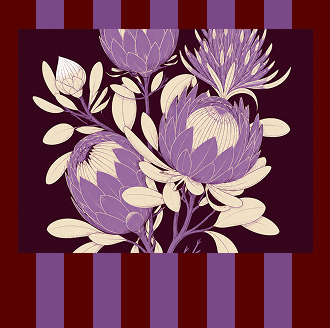
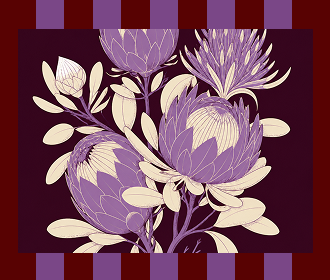
Updates

diff --git a/index.html b/index.html
@@ -20,8 +20,8 @@
         }
       })();
     </script>
-  <script type="module" crossorigin src="/assets/index-DYLBtxY8.js"></script>
-  <link rel="stylesheet" crossorigin href="/assets/index-BcqZ-OCR.css">
+  <script type="module" crossorigin src="/assets/index-DflbWhc_.js"></script>
+  <link rel="stylesheet" crossorigin href="/assets/index-C4yHXYfq.css">
 </head>
 
 <body>

diff --git a/assets/index-C4yHXYfq.css b/assets/index-C4yHXYfq.css
@@ -1,0 +1,1 @@
+@layer properties{@supports (((-webkit-hyphens:none)) and (not (margin-trim:inline))) or ((-moz-orient:inline) and (not (color:rgb(from red r g b)))){*,:before,:after,::backdrop{--tw-translate-x:0;--tw-translate-y:0;--tw-translate-z:0;--tw-border-style:solid;--tw-leading:initial;--tw-font-weight:initial;--tw-tracking:initial;--tw-shadow:0 0 #0000;--tw-shadow-color:initial;--tw-shadow-alpha:100%;--tw-inset-shadow:0 0 #0000;--tw-inset-shadow-color:initial;--tw-inset-shadow-alpha:100%;--tw-ring-color:initial;--tw-ring-shadow:0 0 #0000;--tw-inset-ring-color:initial;--tw-inset-ring-shadow:0 0 #0000;--tw-ring-inset:initial;--tw-ring-offset-width:0px;--tw-ring-offset-color:#fff;--tw-ring-offset-shadow:0 0 #0000;--tw-duration:initial}}}@layer theme{:root,:host{--font-sans:ui-sans-serif,system-ui,sans-serif,"Apple Color Emoji","Segoe UI Emoji","Segoe UI Symbol","Noto Color Emoji";--font-mono:ui-monospace,SFMono-Regular,Menlo,Monaco,Consolas,"Liberation Mono","Courier New",monospace;--color-red-500:oklch(63.7% .237 25.331);--color-green-500:oklch(72.3% .219 149.579);--color-blue-500:oklch(62.3% .214 259.815);--color-slate-300:oklch(86.9% .022 252.894);--color-slate-400:oklch(70.4% .04 256.788);--color-slate-500:oklch(55.4% .046 257.417);--color-slate-600:oklch(44.6% .043 257.281);--color-slate-700:oklch(37.2% .044 257.287);--color-slate-900:oklch(20.8% .042 265.755);--color-black:#000;--color-white:#fff;--spacing:.25rem;--container-sm:24rem;--text-xs:.75rem;--text-xs--line-height:calc(1/.75);--text-sm:.875rem;--text-sm--line-height:calc(1.25/.875);--text-lg:1.125rem;--text-lg--line-height:calc(1.75/1.125);--text-xl:1.25rem;--text-xl--line-height:calc(1.75/1.25);--text-2xl:1.5rem;--text-2xl--line-height:calc(2/1.5);--text-3xl:1.875rem;--text-3xl--line-height: 1.2 ;--text-4xl:2.25rem;--text-4xl--line-height:calc(2.5/2.25);--font-weight-normal:400;--font-weight-semibold:600;--font-weight-bold:700;--radius-xl:.75rem;--radius-2xl:1rem;--default-transition-duration:.15s;--default-transition-timing-function:cubic-bezier(.4,0,.2,1);--default-font-family:var(--font-sans);--default-mono-font-family:var(--font-mono)}}@layer base{*,:after,:before,::backdrop{box-sizing:border-box;border:0 solid;margin:0;padding:0}::file-selector-button{box-sizing:border-box;border:0 solid;margin:0;padding:0}html,:host{-webkit-text-size-adjust:100%;tab-size:4;line-height:1.5;font-family:var(--default-font-family,ui-sans-serif,system-ui,sans-serif,"Apple Color Emoji","Segoe UI Emoji","Segoe UI Symbol","Noto Color Emoji");font-feature-settings:var(--default-font-feature-settings,normal);font-variation-settings:var(--default-font-variation-settings,normal);-webkit-tap-highlight-color:transparent}hr{height:0;color:inherit;border-top-width:1px}abbr:where([title]){-webkit-text-decoration:underline dotted;text-decoration:underline dotted}h1,h2,h3,h4,h5,h6{font-size:inherit;font-weight:inherit}a{color:inherit;-webkit-text-decoration:inherit;text-decoration:inherit}b,strong{font-weight:bolder}code,kbd,samp,pre{font-family:var(--default-mono-font-family,ui-monospace,SFMono-Regular,Menlo,Monaco,Consolas,"Liberation Mono","Courier New",monospace);font-feature-settings:var(--default-mono-font-feature-settings,normal);font-variation-settings:var(--default-mono-font-variation-settings,normal);font-size:1em}small{font-size:80%}sub,sup{vertical-align:baseline;font-size:75%;line-height:0;position:relative}sub{bottom:-.25em}sup{top:-.5em}table{text-indent:0;border-color:inherit;border-collapse:collapse}:-moz-focusring{outline:auto}progress{vertical-align:baseline}summary{display:list-item}ol,ul,menu{list-style:none}img,svg,video,canvas,audio,iframe,embed,object{vertical-align:middle;display:block}img,video{max-width:100%;height:auto}button,input,select,optgroup,textarea{font:inherit;font-feature-settings:inherit;font-variation-settings:inherit;letter-spacing:inherit;color:inherit;opacity:1;background-color:#0000;border-radius:0}::file-selector-button{font:inherit;font-feature-settings:inherit;font-variation-settings:inherit;letter-spacing:inherit;color:inherit;opacity:1;background-color:#0000;border-radius:0}:where(select:is([multiple],[size])) optgroup{font-weight:bolder}:where(select:is([multiple],[size])) optgroup option{padding-inline-start:20px}::file-selector-button{margin-inline-end:4px}::placeholder{opacity:1}@supports (not ((-webkit-appearance:-apple-pay-button))) or (contain-intrinsic-size:1px){::placeholder{color:currentColor}@supports (color:color-mix(in lab,red,red)){::placeholder{color:color-mix(in oklab,currentcolor 50%,transparent)}}}textarea{resize:vertical}::-webkit-search-decoration{-webkit-appearance:none}::-webkit-date-and-time-value{min-height:1lh;text-align:inherit}::-webkit-datetime-edit{display:inline-flex}::-webkit-datetime-edit-fields-wrapper{padding:0}::-webkit-datetime-edit{padding-block:0}::-webkit-datetime-edit-year-field{padding-block:0}::-webkit-datetime-edit-month-field{padding-block:0}::-webkit-datetime-edit-day-field{padding-block:0}::-webkit-datetime-edit-hour-field{padding-block:0}::-webkit-datetime-edit-minute-field{padding-block:0}::-webkit-datetime-edit-second-field{padding-block:0}::-webkit-datetime-edit-millisecond-field{padding-block:0}::-webkit-datetime-edit-meridiem-field{padding-block:0}::-webkit-calendar-picker-indicator{line-height:1}:-moz-ui-invalid{box-shadow:none}button,input:where([type=button],[type=reset],[type=submit]){appearance:button}::file-selector-button{appearance:button}::-webkit-inner-spin-button{height:auto}::-webkit-outer-spin-button{height:auto}[hidden]:where(:not([hidden=until-found])){display:none!important}}@layer components;@layer utilities{.absolute{position:absolute}.fixed{position:fixed}.relative{position:relative}.inset-0{inset:calc(var(--spacing)*0)}.top-2{top:calc(var(--spacing)*2)}.right-2{right:calc(var(--spacing)*2)}.right-2\.5{right:calc(var(--spacing)*2.5)}.bottom-4\.5{bottom:calc(var(--spacing)*4.5)}.z-50{z-index:50}.mx-1{margin-inline:calc(var(--spacing)*1)}.mx-4{margin-inline:calc(var(--spacing)*4)}.mx-auto{margin-inline:auto}.mt-3{margin-top:calc(var(--spacing)*3)}.mt-6{margin-top:calc(var(--spacing)*6)}.mb-2{margin-bottom:calc(var(--spacing)*2)}.mb-4{margin-bottom:calc(var(--spacing)*4)}.mb-\[30px\]{margin-bottom:30px}.flex{display:flex}.grid{display:grid}.aspect-square{aspect-ratio:1}.h-4{height:calc(var(--spacing)*4)}.h-8{height:calc(var(--spacing)*8)}.h-10{height:calc(var(--spacing)*10)}.h-12{height:calc(var(--spacing)*12)}.h-34{height:calc(var(--spacing)*34)}.w-4{width:calc(var(--spacing)*4)}.w-8{width:calc(var(--spacing)*8)}.w-12{width:calc(var(--spacing)*12)}.w-32{width:calc(var(--spacing)*32)}.w-34{width:calc(var(--spacing)*34)}.w-full{width:100%}.max-w-\[80\%\]{max-width:80%}.max-w-sm{max-width:var(--container-sm)}.flex-1{flex:1}.translate-x-px{--tw-translate-x:1px;translate:var(--tw-translate-x)var(--tw-translate-y)}.cursor-pointer{cursor:pointer}.resize-none{resize:none}.grid-cols-2{grid-template-columns:repeat(2,minmax(0,1fr))}.flex-col{flex-direction:column}.items-center{align-items:center}.items-start{align-items:flex-start}.justify-between{justify-content:space-between}.justify-center{justify-content:center}.justify-start{justify-content:flex-start}.gap-0\.5{gap:calc(var(--spacing)*.5)}.gap-1{gap:calc(var(--spacing)*1)}.gap-2{gap:calc(var(--spacing)*2)}.gap-3{gap:calc(var(--spacing)*3)}.gap-4{gap:calc(var(--spacing)*4)}.gap-6{gap:calc(var(--spacing)*6)}.gap-y-8{row-gap:calc(var(--spacing)*8)}.rounded{border-radius:.25rem}.rounded-2xl{border-radius:var(--radius-2xl)}.rounded-full{border-radius:3.40282e38px}.rounded-xl{border-radius:var(--radius-xl)}.border{border-style:var(--tw-border-style);border-width:1px}.border-t{border-top-style:var(--tw-border-style);border-top-width:1px}.border-b-4{border-bottom-style:var(--tw-border-style);border-bottom-width:4px}.border-transparent{border-color:#0000}.bg-black\/50{background-color:#00000080}@supports (color:color-mix(in lab,red,red)){.bg-black\/50{background-color:color-mix(in oklab,var(--color-black)50%,transparent)}}.bg-slate-700{background-color:var(--color-slate-700)}.bg-white{background-color:var(--color-white)}.p-3{padding:calc(var(--spacing)*3)}.p-4{padding:calc(var(--spacing)*4)}.p-8{padding:calc(var(--spacing)*8)}.px-1{padding-inline:calc(var(--spacing)*1)}.px-2{padding-inline:calc(var(--spacing)*2)}.px-4{padding-inline:calc(var(--spacing)*4)}.py-2{padding-block:calc(var(--spacing)*2)}.\!pr-12{padding-right:calc(var(--spacing)*12)!important}.pb-2{padding-bottom:calc(var(--spacing)*2)}.text-center{text-align:center}.text-left{text-align:left}.text-right{text-align:right}.text-2xl{font-size:var(--text-2xl);line-height:var(--tw-leading,var(--text-2xl--line-height))}.text-3xl{font-size:var(--text-3xl);line-height:var(--tw-leading,var(--text-3xl--line-height))}.text-lg{font-size:var(--text-lg);line-height:var(--tw-leading,var(--text-lg--line-height))}.text-sm{font-size:var(--text-sm);line-height:var(--tw-leading,var(--text-sm--line-height))}.text-xl{font-size:var(--text-xl);line-height:var(--tw-leading,var(--text-xl--line-height))}.text-xs{font-size:var(--text-xs);line-height:var(--tw-leading,var(--text-xs--line-height))}.leading-\[18px\]{--tw-leading:18px;line-height:18px}.font-bold{--tw-font-weight:var(--font-weight-bold);font-weight:var(--font-weight-bold)}.font-normal{--tw-font-weight:var(--font-weight-normal);font-weight:var(--font-weight-normal)}.font-semibold{--tw-font-weight:var(--font-weight-semibold);font-weight:var(--font-weight-semibold)}.tracking-\[0\.4px\]{--tw-tracking:.4px;letter-spacing:.4px}.text-green-500{color:var(--color-green-500)}.text-red-500{color:var(--color-red-500)}.text-slate-300{color:var(--color-slate-300)}.text-slate-400{color:var(--color-slate-400)}.text-slate-500{color:var(--color-slate-500)}.text-white{color:var(--color-white)}.uppercase{text-transform:uppercase}.underline{text-decoration-line:underline}.shadow{--tw-shadow:0 1px 3px 0 var(--tw-shadow-color,#0000001a),0 1px 2px -1px var(--tw-shadow-color,#0000001a);box-shadow:var(--tw-inset-shadow),var(--tw-inset-ring-shadow),var(--tw-ring-offset-shadow),var(--tw-ring-shadow),var(--tw-shadow)}.transition-colors{transition-property:color,background-color,border-color,outline-color,text-decoration-color,fill,stroke,--tw-gradient-from,--tw-gradient-via,--tw-gradient-to;transition-timing-function:var(--tw-ease,var(--default-transition-timing-function));transition-duration:var(--tw-duration,var(--default-transition-duration))}@media(hover:hover){.hover\:bg-slate-900:hover{background-color:var(--color-slate-900)}.hover\:text-slate-600:hover{color:var(--color-slate-600)}}@media(min-width:48rem){.md\:absolute{position:absolute}.md\:grid-cols-4{grid-template-columns:repeat(4,minmax(0,1fr))}.md\:flex-row{flex-direction:row}.md\:gap-6{gap:calc(var(--spacing)*6)}.md\:gap-8{gap:calc(var(--spacing)*8)}.md\:text-4xl{font-size:var(--text-4xl);line-height:var(--tw-leading,var(--text-4xl--line-height))}.md\:text-lg{font-size:var(--text-lg);line-height:var(--tw-leading,var(--text-lg--line-height))}.md\:text-\[40px\]{font-size:40px}.md\:leading-\[50px\]{--tw-leading:50px;line-height:50px}}}.poppins-thin{font-family:Poppins,sans-serif;font-style:normal;font-weight:100}.poppins-extralight{font-family:Poppins,sans-serif;font-style:normal;font-weight:200}.poppins-light{font-family:Poppins,sans-serif;font-style:normal;font-weight:300}.poppins-regular{font-family:Poppins,sans-serif;font-style:normal;font-weight:400}.poppins-medium{font-family:Poppins,sans-serif;font-style:normal;font-weight:500}.poppins-semibold{font-family:Poppins,sans-serif;font-style:normal;font-weight:600}.poppins-bold{font-family:Poppins,sans-serif;font-style:normal;font-weight:700}.poppins-extrabold{font-family:Poppins,sans-serif;font-style:normal;font-weight:800}.poppins-black{font-family:Poppins,sans-serif;font-style:normal;font-weight:900}.poppins-thin-italic{font-family:Poppins,sans-serif;font-style:italic;font-weight:100}.poppins-extralight-italic{font-family:Poppins,sans-serif;font-style:italic;font-weight:200}.poppins-light-italic{font-family:Poppins,sans-serif;font-style:italic;font-weight:300}.poppins-regular-italic{font-family:Poppins,sans-serif;font-style:italic;font-weight:400}.poppins-medium-italic{font-family:Poppins,sans-serif;font-style:italic;font-weight:500}.poppins-semibold-italic{font-family:Poppins,sans-serif;font-style:italic;font-weight:600}.poppins-bold-italic{font-family:Poppins,sans-serif;font-style:italic;font-weight:700}.poppins-extrabold-italic{font-family:Poppins,sans-serif;font-style:italic;font-weight:800}.poppins-black-italic{font-family:Poppins,sans-serif;font-style:italic;font-weight:900}#root{padding:calc(var(--spacing)*6)}@media(min-width:48rem){#root{padding:calc(var(--spacing)*8)}}#root{text-align:center;--purple:#7a4787;--beige:#fffaf5;max-width:1280px;margin:0 auto}body{color:#333;font-family:Poppins,sans-serif;font-style:normal}.foto-capa{background-color:#580202;background-image:url(/foto4.jpeg);background-position:50% 72%;background-repeat:no-repeat;background-size:cover;width:100%;height:40vh;position:relative}.foto-capa.danca{background-image:url(/danca.png);background-position:50%;background-size:auto 80vh}.foto-capa:after{width:6px;height:40px;bottom:-20px}@media(min-width:48rem){.foto-capa:after{height:60px;bottom:-30px}}.foto-capa:after{content:"";background:var(--purple);position:absolute;left:50%;transform:translate(-50%)}.mood-festa{height:170px}@media(min-width:48rem){.mood-festa{height:250px}}.mood-festa{position:relative}.mood-festa:before{content:"";z-index:-1;filter:brightness(.5);background-image:url(/plantas-fundo.jpg);background-position:top;background-size:200%;width:100%;height:100%;position:absolute}.garden{display:none}@media(min-width:48rem){.garden{display:block}}.garden{aspect-ratio:1;background-image:url(/jardim.png);background-position:50%;background-size:cover}.spotify{background-color:#e6e6e6;justify-content:center;align-items:center;height:468px;margin-top:111px;margin-bottom:70px;display:flex;position:relative}.spotify:before{content:"";background:#d9d9d9;border-radius:100%;width:80px;height:80px;position:absolute;top:-40px;left:50%;transform:translate(-50%)}.spotify .capa-spotify{letter-spacing:.4px;background-color:#b8b8b8;justify-content:center;align-items:center;width:330px;height:330px;font-size:20px;display:flex}.input{background-color:var(--beige);width:100%;padding:calc(var(--spacing)*2)}.input:focus{--tw-ring-shadow:var(--tw-ring-inset,)0 0 0 calc(2px + var(--tw-ring-offset-width))var(--tw-ring-color,currentcolor);box-shadow:var(--tw-inset-shadow),var(--tw-inset-ring-shadow),var(--tw-ring-offset-shadow),var(--tw-ring-shadow),var(--tw-shadow);--tw-ring-color:var(--color-blue-500);--tw-outline-style:none;border-color:#0000;outline-style:none}.input.input-error{border-style:var(--tw-border-style);border-width:1px;border-color:var(--color-red-500)}.input.input-error:focus{--tw-ring-color:var(--color-red-500)}.button{cursor:pointer;background-color:var(--color-black);padding-inline:calc(var(--spacing)*4);padding-block:calc(var(--spacing)*2);font-size:var(--text-sm);line-height:var(--tw-leading,var(--text-sm--line-height));--tw-tracking:.2px;letter-spacing:.2px;color:var(--color-white);text-transform:uppercase;transition-property:color,background-color,border-color,outline-color,text-decoration-color,fill,stroke,--tw-gradient-from,--tw-gradient-via,--tw-gradient-to;transition-timing-function:var(--tw-ease,var(--default-transition-timing-function));transition-duration:var(--tw-duration,var(--default-transition-duration));--tw-duration:.3s;transition-duration:.3s}@media(hover:hover){.button:hover{background-color:var(--purple)}}.button{font-weight:600}@media not all and (min-width:48rem){.small{margin-right:calc(var(--spacing)*4);font-size:var(--text-sm);line-height:var(--tw-leading,var(--text-sm--line-height));flex:1}.foto-capa{background-size:250%}}.card{align-items:stretch;gap:calc(var(--spacing)*4);background-color:var(--beige);padding-bottom:calc(var(--spacing)*4);flex-direction:column;flex:1;display:flex}.card .button{margin-inline:calc(var(--spacing)*14)}@media(min-width:48rem){.card .button{margin-inline:calc(var(--spacing)*6)}}.title{text-align:center;font-size:var(--text-2xl);line-height:var(--tw-leading,var(--text-2xl--line-height));--tw-font-weight:var(--font-weight-bold);font-weight:var(--font-weight-bold);--tw-tracking:.4px;letter-spacing:.4px}@media(min-width:48rem){.title{font-size:var(--text-4xl);line-height:var(--tw-leading,var(--text-4xl--line-height))}}.extra{width:100%;height:110px}@media(min-width:48rem){.extra{height:220px}}.extra{background-position:50%;background-repeat:no-repeat;background-size:cover}.extra.extra-1{background-image:url(/extra1.png)}.extra.extra-2{background-image:url(/extra2.png)}.extra.color-bg1{background-color:#580202;background-size:32px}@media(min-width:48rem){.extra.color-bg1{background-size:48px}}.extra.color-bg1{background-image:url(/landing/calendar.svg)}.extra.color-bg2{background-color:var(--purple);background-size:32px}@media(min-width:48rem){.extra.color-bg2{background-size:48px}}.extra.color-bg2{background-image:url(/landing/giftlist.svg)}.bar{gap:calc(var(--spacing)*8);background-color:var(--beige);padding-inline:calc(var(--spacing)*8);padding-block:calc(var(--spacing)*6);font-size:var(--text-sm);line-height:var(--tw-leading,var(--text-sm--line-height));flex-direction:column;flex:1;display:flex}@media(min-width:48rem){.bar{flex-direction:row}}.bar>div{align-items:center;gap:calc(var(--spacing)*1);flex-direction:column;flex:1;display:flex}@media(min-width:48rem){.bar>div{text-align:left;align-items:flex-start}}.small-icon{margin-bottom:calc(var(--spacing)*4);background-position:50%;background-repeat:no-repeat;background-size:contain;width:22px;height:22px}.side-card{background-color:var(--beige);font-size:var(--text-sm);line-height:var(--tw-leading,var(--text-sm--line-height));flex-direction:row;flex:1;align-items:center;display:flex}.side-card .link-card{cursor:pointer;justify-content:space-around;align-items:center;gap:calc(var(--spacing)*4);padding-inline:calc(var(--spacing)*4);padding-block:calc(var(--spacing)*2);--tw-font-weight:var(--font-weight-bold);font-weight:var(--font-weight-bold);transition-property:color,background-color,border-color,outline-color,text-decoration-color,fill,stroke,--tw-gradient-from,--tw-gradient-via,--tw-gradient-to;transition-timing-function:var(--tw-ease,var(--default-transition-timing-function));transition-duration:var(--tw-duration,var(--default-transition-duration));--tw-duration:.3s;flex:1;transition-duration:.3s;display:flex}@media(hover:hover){.side-card .link-card:hover{color:var(--purple)}}@media(min-width:48rem){.side-card .link-card{padding-inline:calc(var(--spacing)*4);padding-block:calc(var(--spacing)*0);font-size:var(--text-lg);line-height:var(--tw-leading,var(--text-lg--line-height))}}.square-img{display:none}@media(min-width:48rem){.square-img{display:block}}.square-img{background-position:0;background-repeat:no-repeat;background-size:contain;width:185px;height:160px}.square-img.bg1{background-image:url(/bg-flower1.png)}.square-img.bg2{background-image:url(/bg-flower2.png)}.icon-rounded{background-color:var(--beige);width:40px;height:40px;padding:calc(var(--spacing)*4);background-position:50%;background-repeat:no-repeat;background-size:40%;border-radius:3.40282e38px;justify-content:center;align-items:center;display:flex}.items-list{align-items:flex-start;gap:calc(var(--spacing)*6);text-align:left;font-size:var(--text-sm);line-height:var(--tw-leading,var(--text-sm--line-height));display:flex}.items-list .subtitle{--tw-leading:28px;--tw-font-weight:var(--font-weight-bold);line-height:28px;font-weight:var(--font-weight-bold);text-transform:uppercase}.items-list .content{--tw-leading:24px;line-height:24px}.text-purple{color:var(--purple)}.border-purple{border-color:var(--purple)}.bg-beige{background-color:var(--beige)}@property --tw-translate-x{syntax:"*";inherits:false;initial-value:0}@property --tw-translate-y{syntax:"*";inherits:false;initial-value:0}@property --tw-translate-z{syntax:"*";inherits:false;initial-value:0}@property --tw-border-style{syntax:"*";inherits:false;initial-value:solid}@property --tw-leading{syntax:"*";inherits:false}@property --tw-font-weight{syntax:"*";inherits:false}@property --tw-tracking{syntax:"*";inherits:false}@property --tw-shadow{syntax:"*";inherits:false;initial-value:0 0 #0000}@property --tw-shadow-color{syntax:"*";inherits:false}@property --tw-shadow-alpha{syntax:"<percentage>";inherits:false;initial-value:100%}@property --tw-inset-shadow{syntax:"*";inherits:false;initial-value:0 0 #0000}@property --tw-inset-shadow-color{syntax:"*";inherits:false}@property --tw-inset-shadow-alpha{syntax:"<percentage>";inherits:false;initial-value:100%}@property --tw-ring-color{syntax:"*";inherits:false}@property --tw-ring-shadow{syntax:"*";inherits:false;initial-value:0 0 #0000}@property --tw-inset-ring-color{syntax:"*";inherits:false}@property --tw-inset-ring-shadow{syntax:"*";inherits:false;initial-value:0 0 #0000}@property --tw-ring-inset{syntax:"*";inherits:false}@property --tw-ring-offset-width{syntax:"<length>";inherits:false;initial-value:0}@property --tw-ring-offset-color{syntax:"*";inherits:false;initial-value:#fff}@property --tw-ring-offset-shadow{syntax:"*";inherits:false;initial-value:0 0 #0000}@property --tw-duration{syntax:"*";inherits:false}